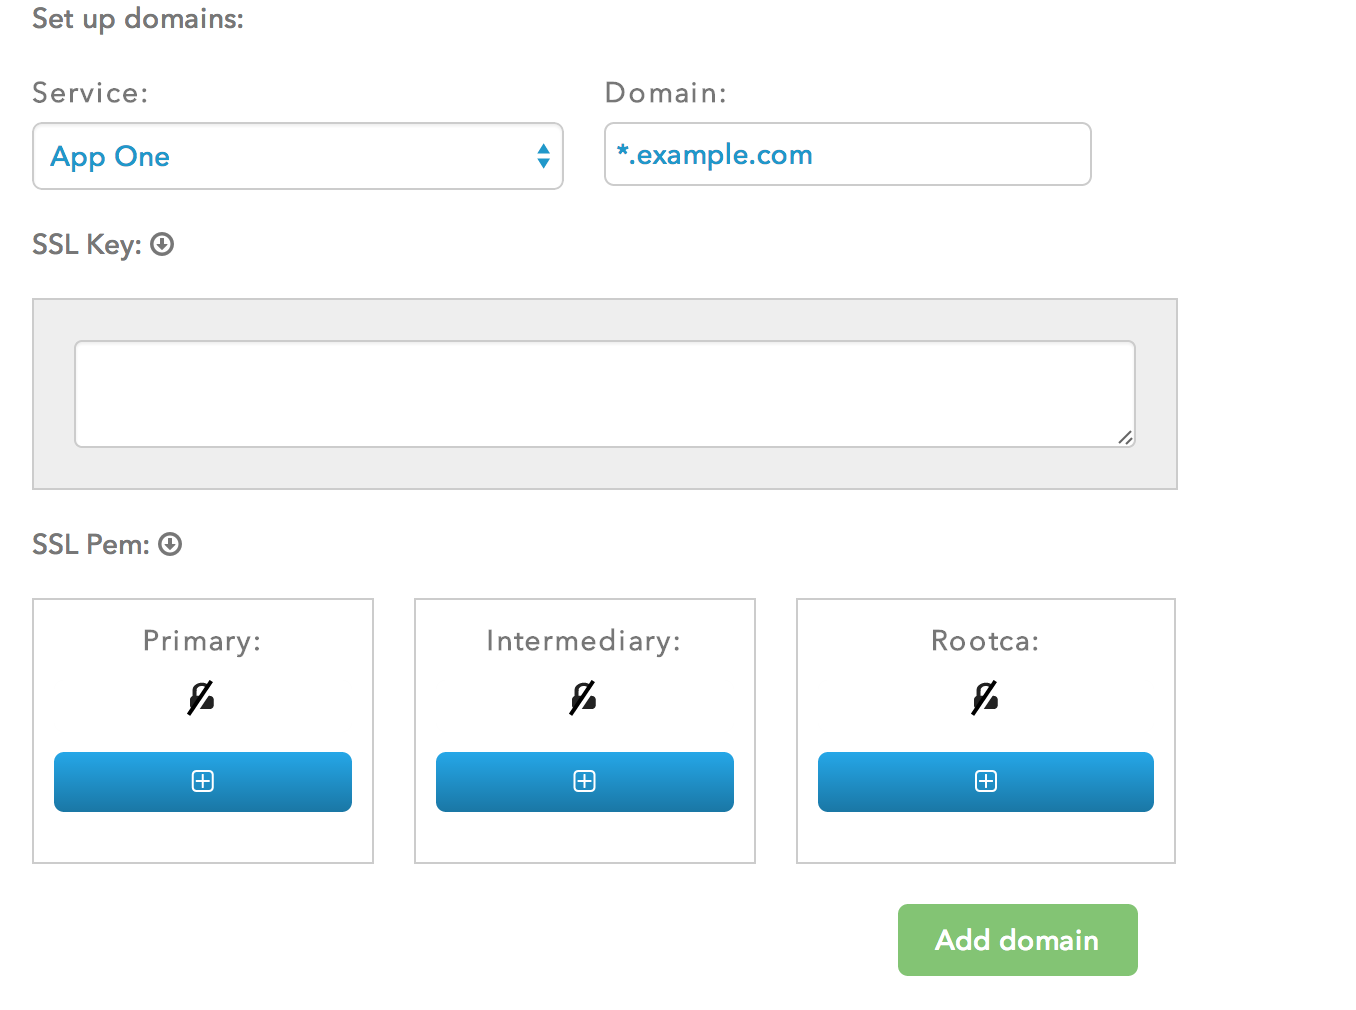
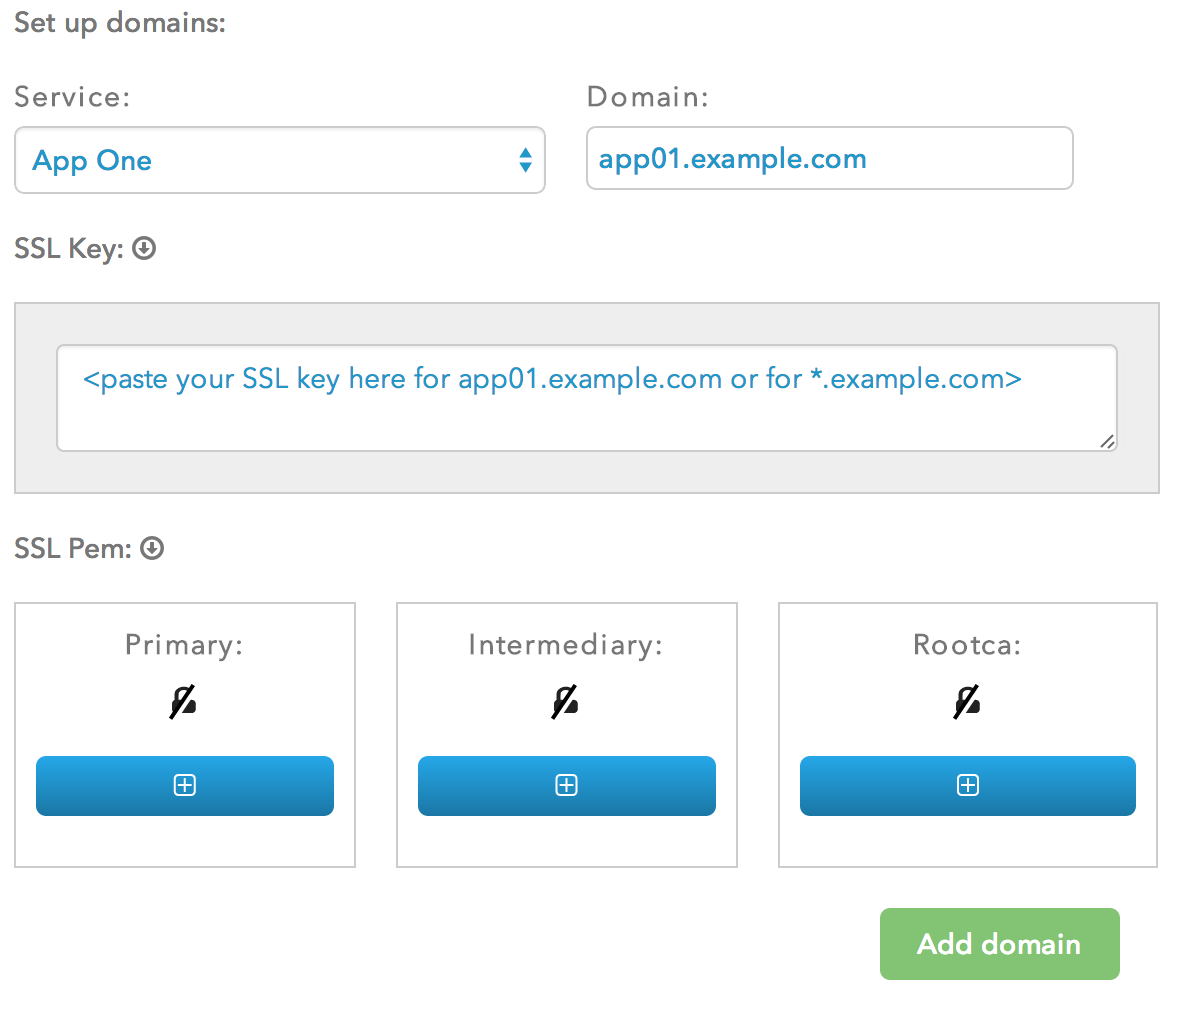
Updates based on anthony's feedback
All corrected (i think) except for the env variables. What is the final
implementation - key value pairs or strings? Will update doc based on
that final design.

diff --git a/deploying_your_first_app/domain_names.md b/deploying_your_first_app/domain_names.md
@@ -15,10 +15,11 @@ Because of the unique nature of SSL validation, provisioning SSL for your applic
 Additional details and steps are available  [here](https://devcenter.heroku.com/articles/ssl-endpoint). [This Stack Overflow answer](http://serverfault.com/questions/9708/what-is-a-pem-file-and-how-does-it-differ-from-other-openssl-generated-key-file) might also provide some additional context around some of the terms used in this section. 
 
 
-A couple of points to pay attention to:
-- While generating the CSR, the Common Name field must match the secure domain **exactly**. If you buy a certificate for `example.com`, it won't match or secure `www.example.com`. So, if you want to deploy:
+A couple of points to pay attention to when you are purchasing the certs:
+- While generating the CSR, the Common Name field must match the secure domain **exactly**. If you buy a certificate for `example.com`, it won't match or secure `www.example.com`. 
+- So, if you want to deploy:
   - A single sub-domain such as `app01.example.com`, then buy a cert that matches that exactly
-  - Multiple apps on different subdomains, specify the wildcard URL: `*.example.com`
+  - Multiple apps on different subdomains i.e. if you intend to deploy mutiple apps `app01.example.com` and `app02.example.com`, then buy the wildcard cert i.e. speify the URL during purchase as `*.example.com`
 
 To deploy and secure your apps on Catalyze, we need the following pieces of information that need to be pasted into the appropriate areas in the dashboard screenshow shown below.
 
@@ -29,4 +30,7 @@ To deploy and secure your apps on Catalyze, we need the following pieces of info
 - **Corresponding SSL key**: Paste the SSL key into the section below.
 - **SSL PEM**: You will also need the PEM for the Primary, Intermediate and RootCA authorities. Click on the green **+** below each of them and paste the values in there. Details on how to go about generating and getting the PEMs are available [here](https://www.digicert.com/ssl-support/pem-ssl-creation.htm).
 
-After pasting the info above, click on the **Add Domain** button.
+After pasting the info above, click on the **Add Domain** button and you should see the domain you just added show up in the listing below as shown below.
+
+![Certs and domains listing](../pics/domain.listing.png)
+

diff --git a/deploying_your_first_app/define_your_environment.md b/deploying_your_first_app/define_your_environment.md
@@ -14,7 +14,7 @@ Services can be of type
 
 ### Step 1: Define your code service
 This is the application container i.e. where the logic of your application resides. A full listing of code services we support is available [here-FIXME](FIXME). Please let us know from the links provided there if you'd like us to support additional ones. In the data entry fields provided, you would enter the following:
-- **Name of your service**: Say App One or App01
+- **Name of your service**: For example, App01
 - **Service Type**: Here you would select "Code" from the Service Type dropdown since this the application container.
 - **Service Size**: Sizing essentially corresponds to the amount of RAM you wish to dedicate to this specific service. So, for example, if you know that your app has a pretty high volume of users, you would select 4GB or higher from the dropdown. Or you would select a smaller number if that was appropriate. Let's say, we select 2GB in our example.
 At the end of this set of selections, the screen would look something like this:
